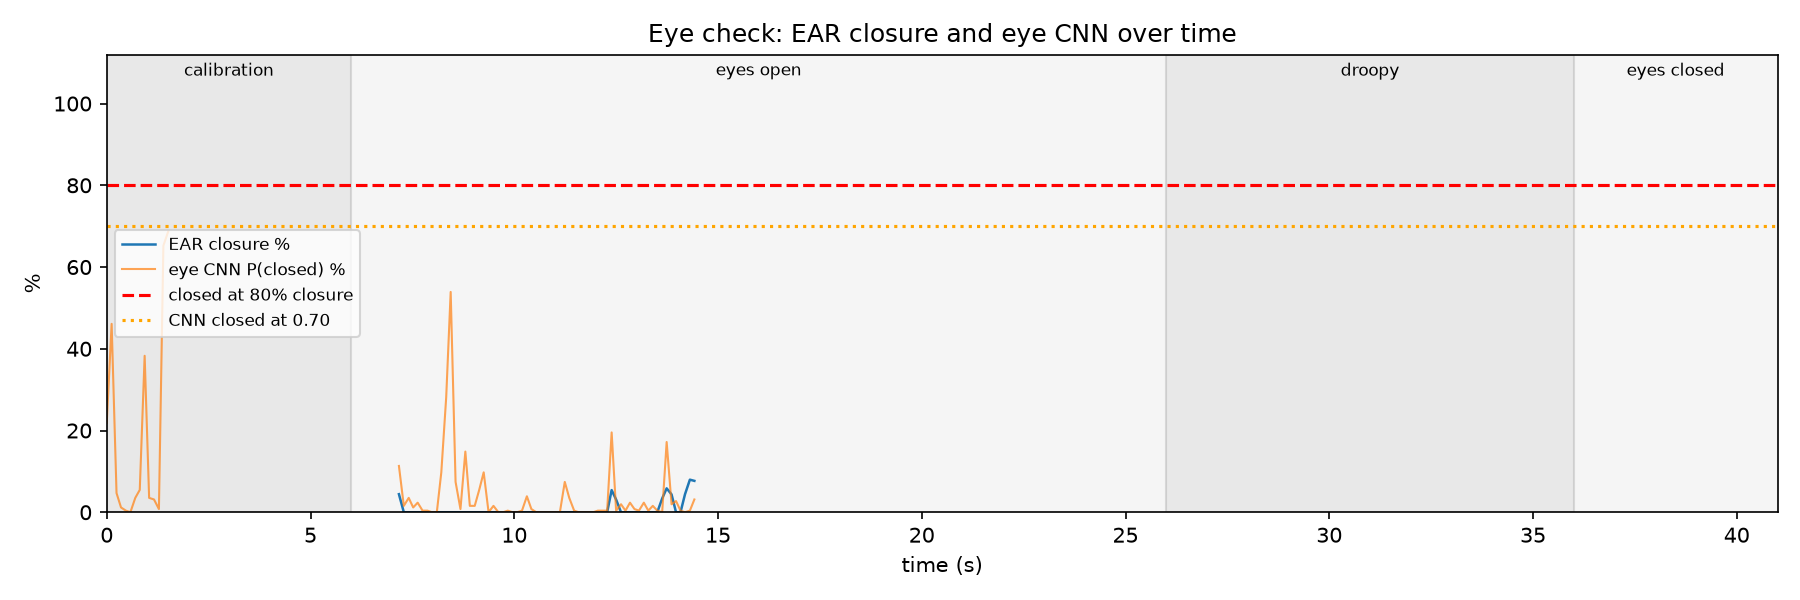
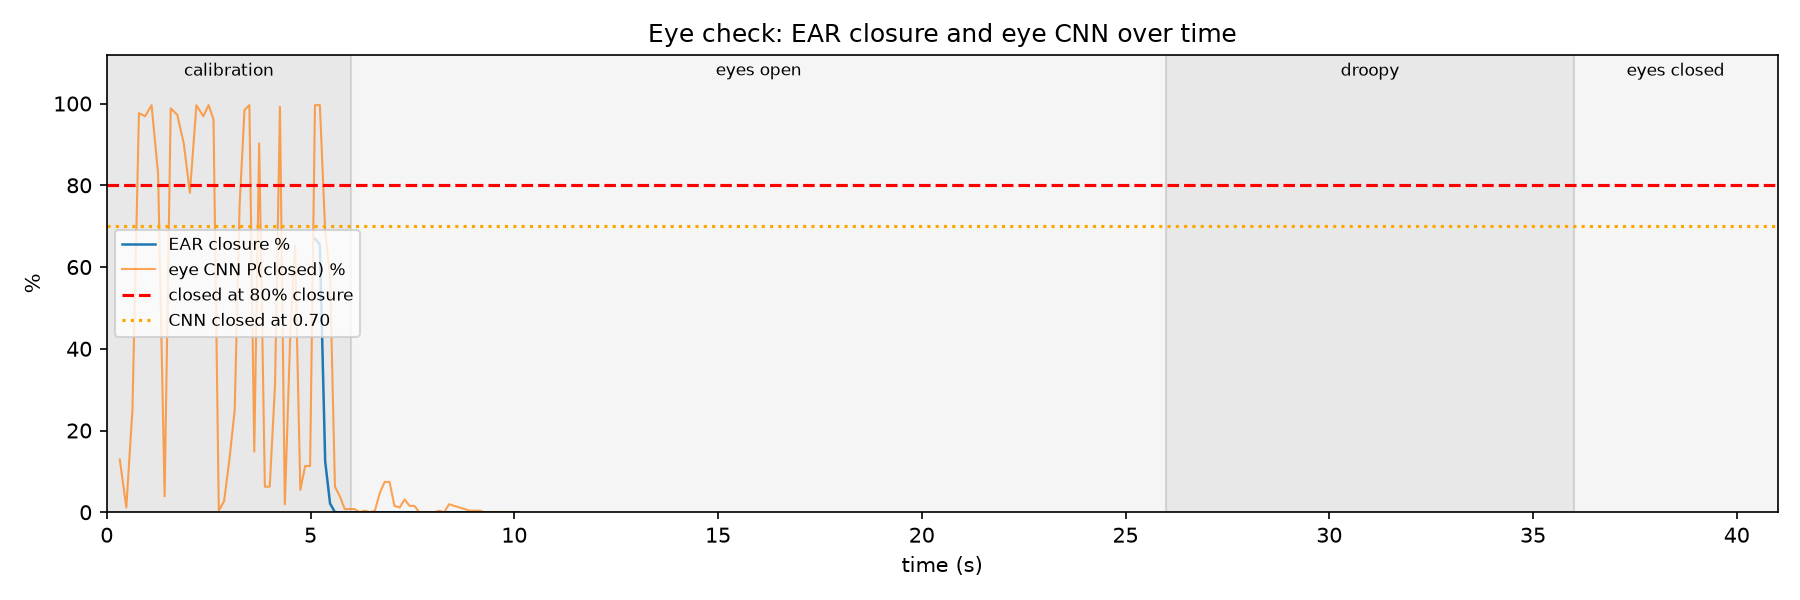
add level for demo

Changed region(s): [[0.0622, 0.18, 0.4044, 0.87], [0.0622, 0.57, 0.0933, 0.84], [0.0622, 0.45, 0.0933, 0.48]]

diff --git a/demo.py b/demo.py
@@ -230,6 +230,7 @@ BOX_FACE = (255, 0, 255)                       # magenta
 BOX_OK = (0, 220, 0)                           # green: eye open / mouth normal
 BOX_BAD = (0, 0, 255)                          # red: eye closed / yawning
 BOX_UNKNOWN = (170, 170, 170)                  # gray: not classified
+BOX_DROOPY = (0, 140, 255)                     # orange: eye droopy
 
 
 def _put(img, text, org, scale=0.55, color=TEXT_MAIN, thick=1):
@@ -259,9 +260,10 @@ def _labeled_box(img, box, label, color, scale=0.5):
                 (0, 0, 0) if dark else (255, 255, 255), 1, cv2.LINE_AA)
 
 
-def draw_camera(frame, det, state, note=""):
+def draw_camera(frame, det, state, note="", closed_for=0.0):
     """Camera view: only the tracked boxes with their labels, plus the
-    messages that need the driver's attention (calibration, test prompts)."""
+    messages that need the driver's attention (calibration, test prompts,
+    and the red warning banner when the eyes stay closed)."""
     img = frame.copy()
     h, w = img.shape[:2]
 
@@ -273,7 +275,10 @@ def draw_camera(frame, det, state, note=""):
             continue
         name, color = ("closed", BOX_BAD) if det["p_closed"] else ("open", BOX_OK)
         if i < len(det["eye_closures"]):         # this eye's closure %, once calibrated
-            name += f" {det['eye_closures'][i] * 100:.0f}%"
+            closure = det["eye_closures"][i]
+            if not det["p_closed"] and closure >= cfg.DROOPY_CLOSURE_MIN:
+                name, color = "droopy", BOX_DROOPY
+            name += f" {closure * 100:.0f}%"
         _labeled_box(img, box, name, color)
     if det["mouth_box"]:
         if det["mar_threshold"] is None:
@@ -282,6 +287,11 @@ def draw_camera(frame, det, state, note=""):
             _labeled_box(img, det["mouth_box"], f"yawn {det['mar']:.2f}", BOX_BAD)
         else:
             _labeled_box(img, det["mouth_box"], f"mouth {det['mar']:.2f}", BOX_OK)
+
+    if closed_for >= cfg.EYES_CLOSED_WARN_S:                  # eyes closed too long
+        cv2.rectangle(img, (0, 0), (w, 70), (0, 0, 230), -1)
+        cv2.putText(img, f"WARNING: EYES CLOSED {closed_for:.0f} s", (14, 48),
+                    FONT, 1.1, (255, 255, 255), 3, cv2.LINE_AA)
 
     if note:
         _outlined(img, note, (14, h - 56), 0.9, (0, 255, 255))
@@ -343,7 +353,14 @@ def draw_panel(height, det, state, fps, wide=False, muted=False):
     # ---- driver ----
     section("DRIVER")
     if det["p_closed"] is not None:
-        row("Eyes", "CLOSED" if det["p_closed"] else "Open", red if det["p_closed"] else green)
+        droopy = (not det["p_closed"] and det["closure"] is not None
+                  and det["closure"] >= cfg.DROOPY_CLOSURE_MIN)
+        if det["p_closed"]:
+            row("Eyes", "CLOSED", red)
+        elif droopy:
+            row("Eyes", "Droopy", (0, 165, 255))
+        else:
+            row("Eyes", "Open", green)
         if det["closure"] is not None:           # live closure % from EAR
             row("Closure", f"{det['closure'] * 100:.0f}%  (EAR {det['ear']:.2f} / "
                            f"{det['ear_open']:.2f})", red if det["ear_closed"] else TEXT_MAIN)
@@ -480,6 +497,7 @@ def run(source=0, display=True, sound=True, muted=False, record=True, events_dir
     period = 1.0 / cfg.TARGET_FPS                          # 10 fps cap
     start = last_wall = time.monotonic()
     fps, frame_idx, processed, t, all_events = 0.0, -1, 0, 0.0, []
+    closed_since, open_run = None, 0
     try:
         while True:
             ok, frame = cap.read()
@@ -498,6 +516,33 @@ def run(source=0, display=True, sound=True, muted=False, record=True, events_dir
             state = engine.update(t, det["p_closed"], det["p_yawn"], det["p80"])
             processed += 1
 
+            # how long the eyes have been closed without a break (a blink-sized
+            # gap of OPEN_FRAME_TOLERANCE frames does not reset it)
+            if det["p_closed"]:
+                if closed_since is None:
+                    closed_since = t
+                open_run = 0
+            elif det["p_closed"] is not None:
+                open_run += 1
+                if open_run > cfg.OPEN_FRAME_TOLERANCE:
+                    closed_since = None
+            else:
+                closed_since = None                       # eyes not visible
+            closed_for = 0.0 if closed_since is None else t - closed_since
+
+            # what the screen shows: by default the level follows the eyes live
+            shown_state = state
+            if cfg.LEVEL_REALTIME:
+                if closed_for >= cfg.MICROSLEEP_S:
+                    live_level = 3
+                elif closed_for >= cfg.OFFENSE_CLOSURE_S:
+                    live_level = 1
+                else:
+                    live_level = 0
+                shown_state = dict(state, level=live_level, text=cfg.LEVEL_TEXT[live_level],
+                                   alarm=(live_level == 3),
+                                   override=bool(state["override"]) and live_level == 3)
+
             now = time.monotonic()
             if processed > 1:
                 inst = 1.0 / max(now - last_wall, 1e-6)
@@ -514,9 +559,9 @@ def run(source=0, display=True, sound=True, muted=False, record=True, events_dir
                       f"(closed-mouth MAR {pipeline.mar_baseline:.3f}). "
                       f"Eye rule: {cfg.EYE_CLOSED_RULE}")
             note = on_frame(t, det, state) if on_frame else ""
-            camera = draw_camera(frame, det, state, note or "")      # boxes + labels
+            camera = draw_camera(frame, det, shown_state, note or "", closed_for)   # boxes + labels
             if display:                                              # camera | details
-                shown = np.hstack([camera, draw_panel(camera.shape[0], det, state, fps,
+                shown = np.hstack([camera, draw_panel(camera.shape[0], det, shown_state, fps,
                                                       wide, player.muted)])
             player.update(state)
             if recorder:

diff --git a/config.py b/config.py
@@ -87,8 +87,16 @@ CALIBRATION_S = 5.0
 #        (EAR_open is the driver's own open-eye EAR, so eye shape does not matter)
 # EYE_CLOSED_RULE decides how they combine into "this frame is closed":
 #   "cnn" | "ear" | "either" (cnn OR ear) | "both" (cnn AND ear)
-EYE_CLOSED_RULE = "either"
+# "ear" was the most reliable rule in the guided eye tests (no false closures).
+EYE_CLOSED_RULE = "ear"
 EAR_CLOSURE_MIN = 0.80             # "80 % closed"; also the PERCLOS (P80) criterion
+DROOPY_CLOSURE_MIN = 0.25          # closure at/above this (but not closed) = "droopy" (display only)
+EYES_CLOSED_WARN_S = 2.0           # red "EYES CLOSED" banner on the camera view after this many seconds
+# True: the level card follows the eyes in real time (open eyes -> NORMAL at once;
+#       closed 2 s -> CAUTION; closed 3 s -> CRITICAL "WAKE UP").
+# False: the original offense-count level, which stays up until offenses leave
+#        the 10-minute window.
+LEVEL_REALTIME = False
 EAR_CLOSED_MANUAL = None           # e.g. 0.08: closed when EAR <= this, instead of the 80 % rule
 EAR_OPEN_DEFAULT = 0.30            # used when calibration is rejected
 EAR_OPEN_MIN = 0.12                # calibration is rejected if the eyes were closed / hidden
@@ -103,7 +111,9 @@ MAR_THRESHOLD_MIN = 0.30           # the threshold never goes below this
 MAR_BASELINE_DEFAULT = 0.02        # used when calibration is rejected
 MAR_BASELINE_MAX = 0.20            # calibration is rejected if the mouth was open
 # Secondary check: the mouth-crop CNN must also say "yawn" before a frame counts.
-YAWN_USE_CNN = True
+# False for now: the mouth model has not been trained (eyes-only work), and
+# demo.py would crash looking for it. Set True again once it is trained.
+YAWN_USE_CNN = False
 YAWN_CNN_MIN = 0.50                # P(yawn) from the mouth CNN needed to agree
 
 # Sunglasses / occlusion check: eyes are "not visible" when the eye region is
